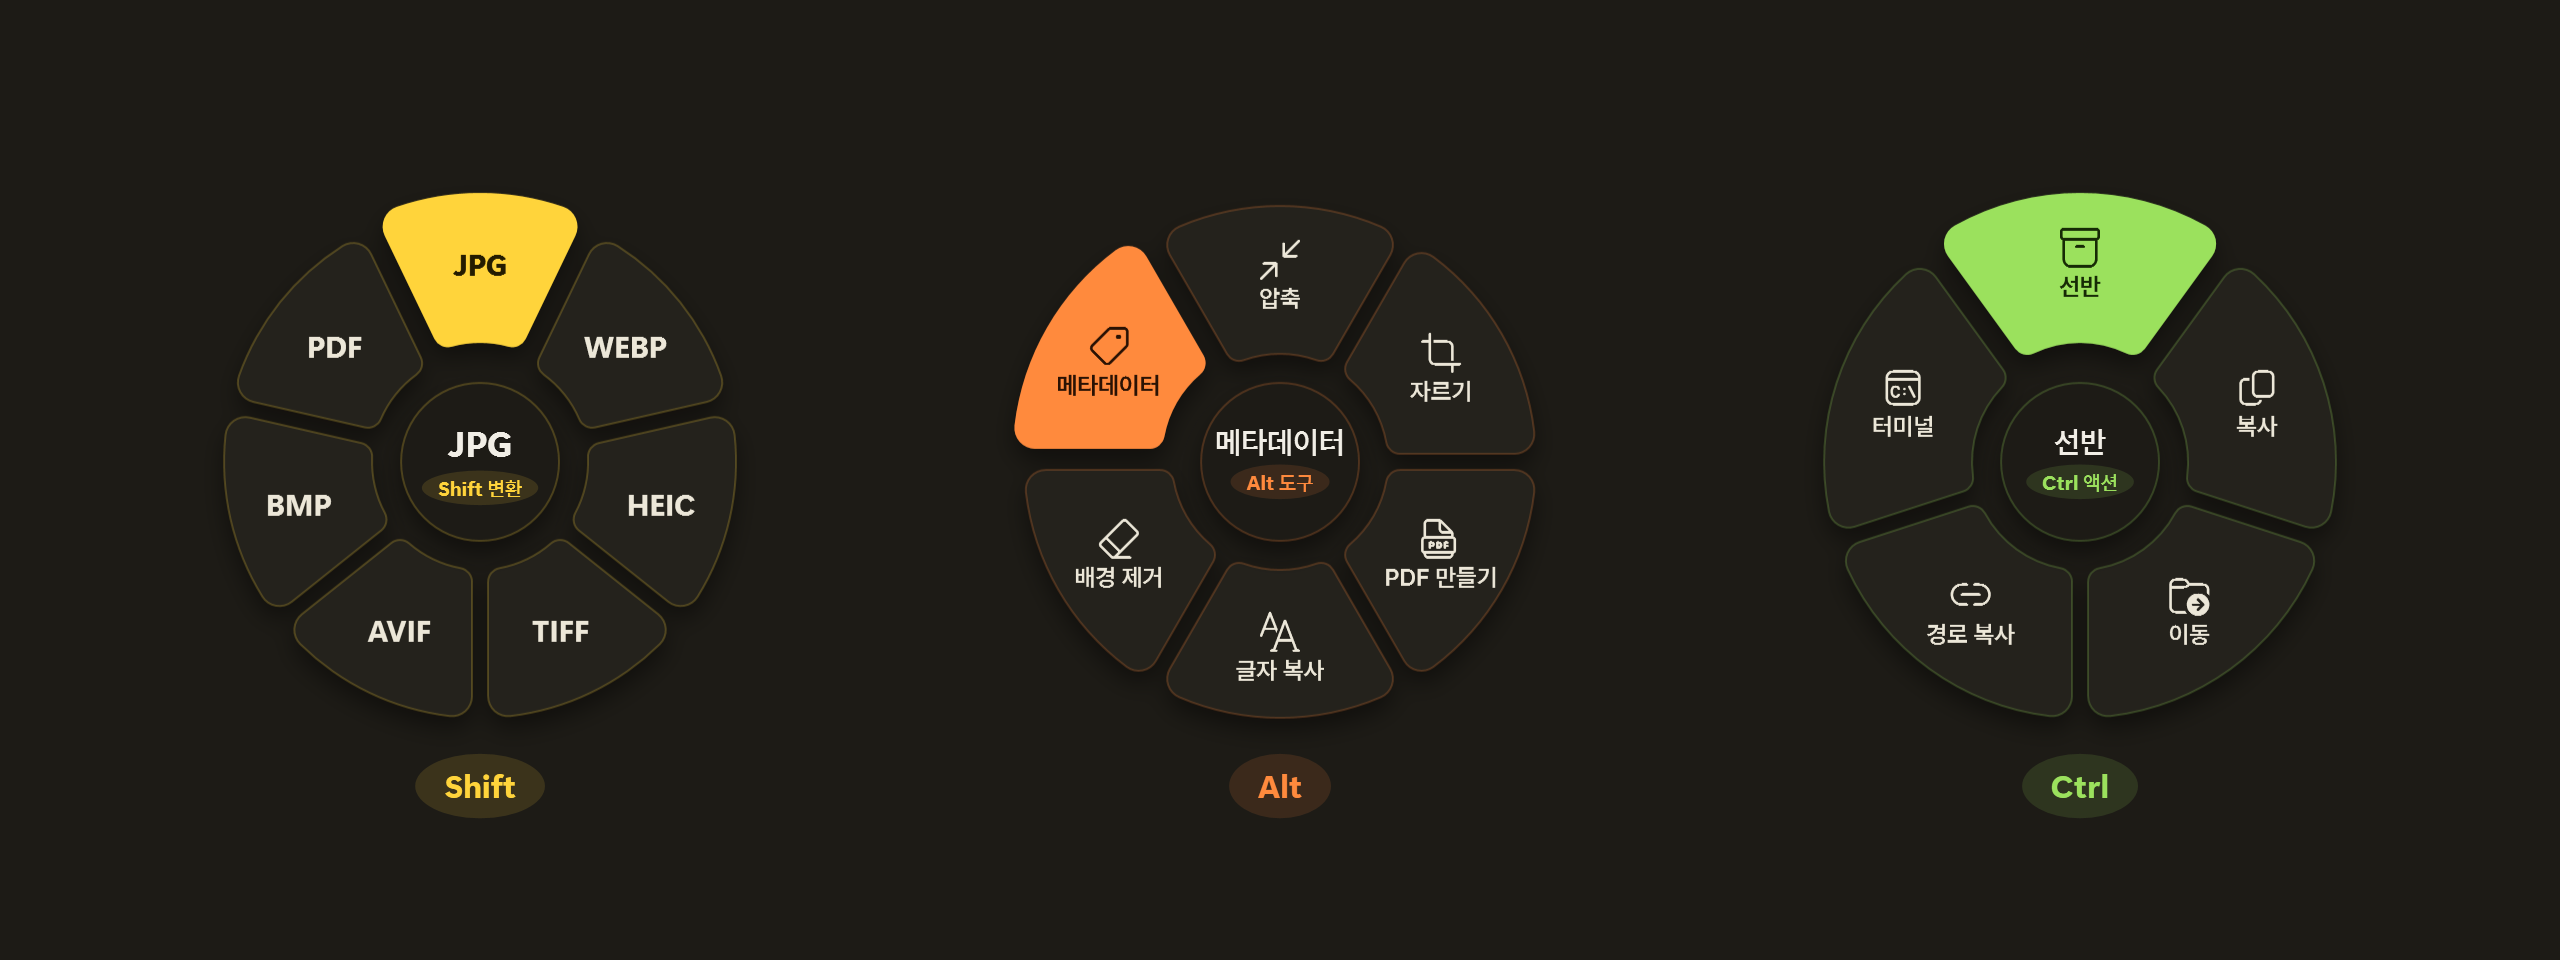
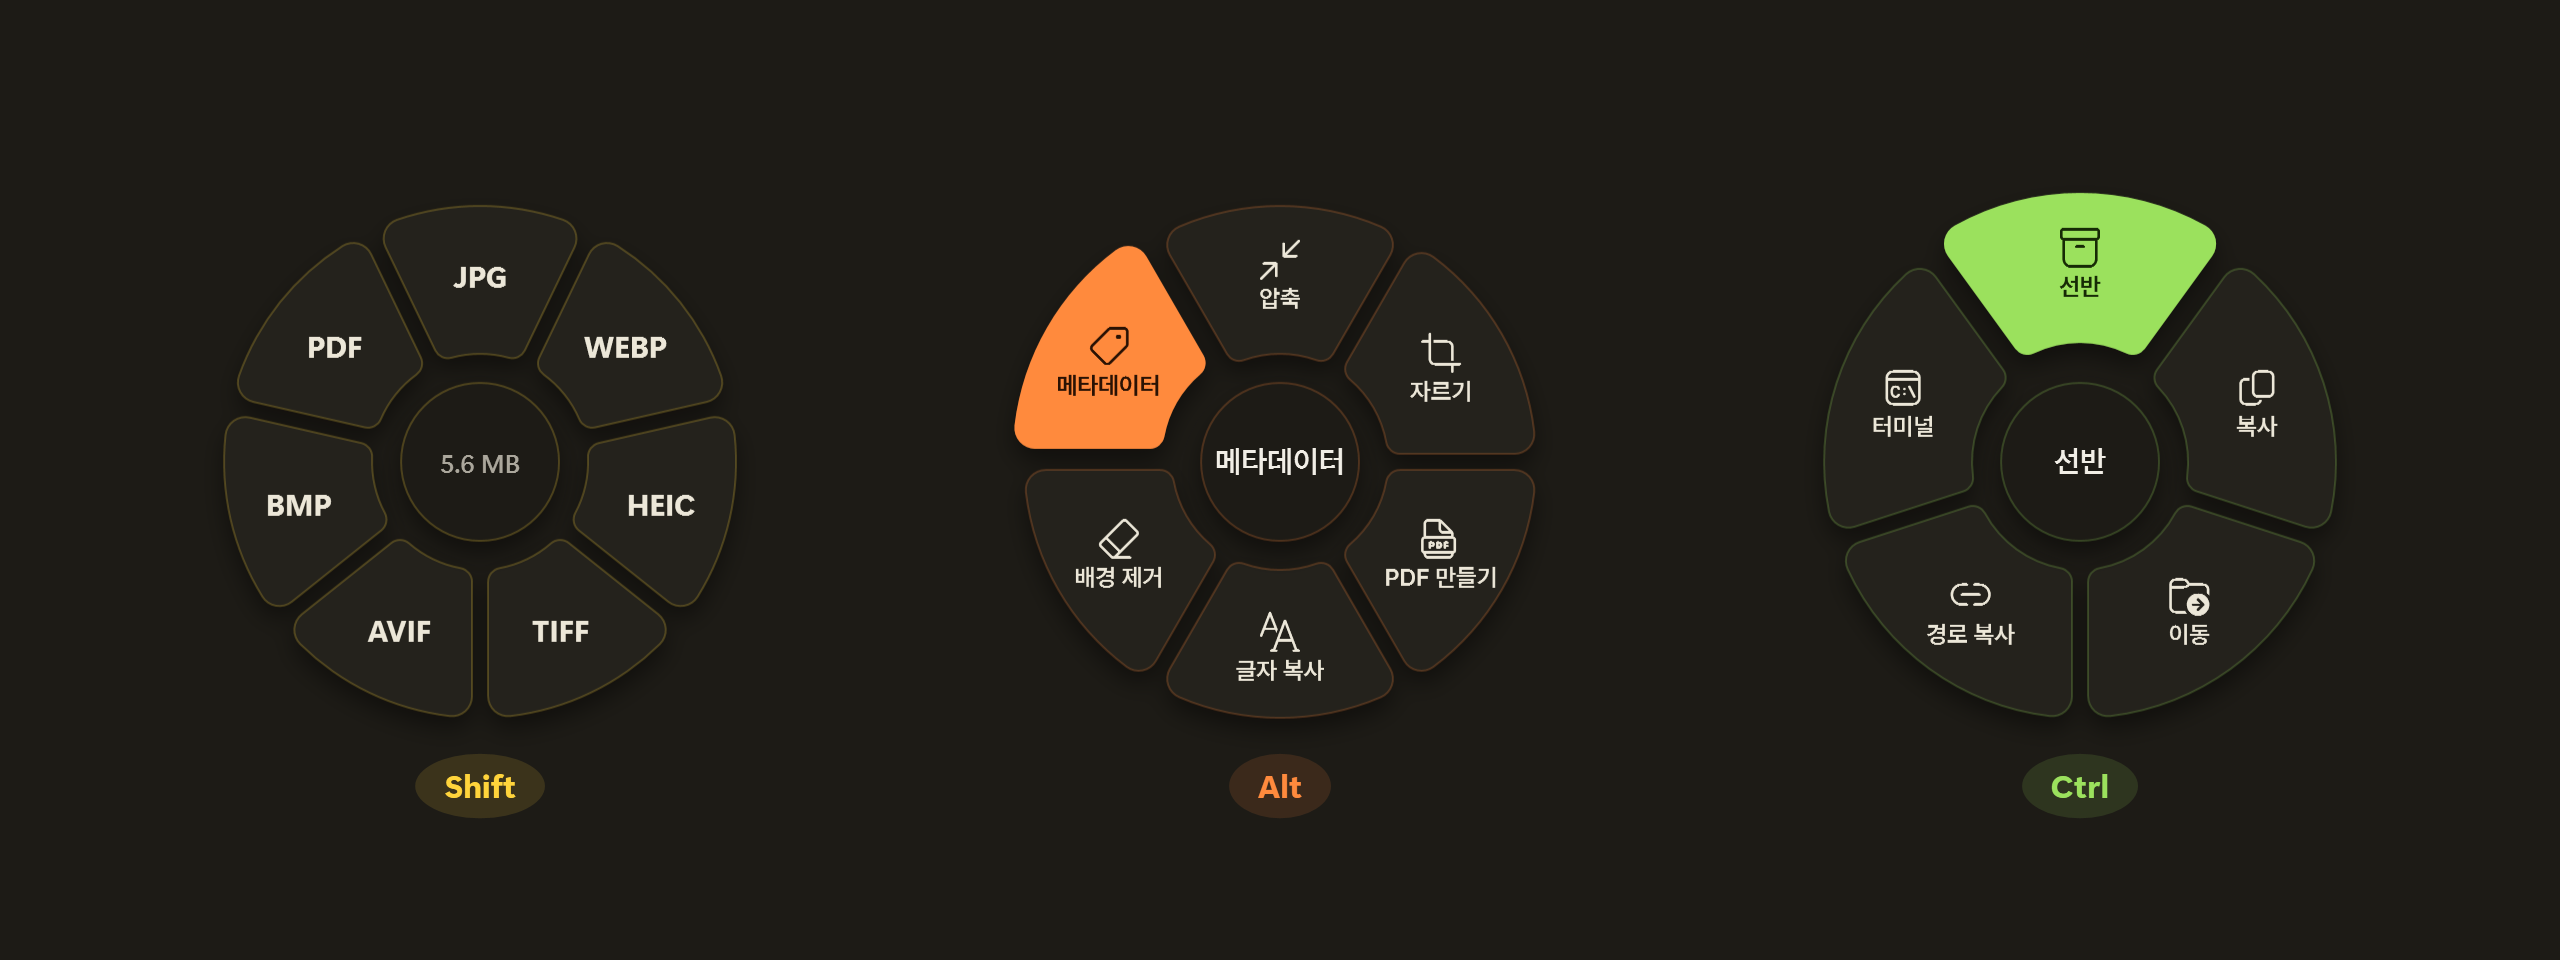
docs: README images and text show the size in the wheel hub
Re-rendered the wheels, demo and demo poster with the new hub (the
photo's 5.6 MB when nothing is hovered, the petal's name when it is),
updated the alt texts in both READMEs, added a line on what the middle
of the wheel shows, and replaced the manual check for the removed chip.

diff --git a/README.en.md b/README.en.md
@@ -19,7 +19,7 @@
 </div>
 
 <p align="center">
-  <img src="docs/images/demo.webp" width="720" alt="The highlight moving over PDF, JPG and WEBP on the convert wheel, compress and metadata on the tools wheel, and copy and shelf on the actions wheel" />
+  <img src="docs/images/demo.webp" width="720" alt="Each wheel opens with the photo's size, 5.6 MB, in the middle; then the highlight moves over PDF, JPG and WEBP on the convert wheel, compress and metadata on the tools wheel, and copy and shelf on the actions wheel, the middle naming each petal" />
   <br />
   <sub>Shift for convert, Alt for tools, Ctrl for actions</sub>
 </p>
@@ -33,7 +33,7 @@ The app's interface is in Korean. Korean labels are quoted below with their mean
    - **Shift**: convert wheel
    - **Alt**: tools wheel
    - **Ctrl**: actions wheel
-3. When the wheel appears, drop the file on the petal you want.
+3. When the wheel appears, drop the file on the petal you want. The middle of the wheel shows the size of the dragged files, and the name of the petal you are over.
 4. Dropping **outside** the wheel or on the **hole in the middle**, or pressing Esc, does nothing.
 5. Convert, the tools and metadata never change the original; the result is a new file next to it. Only the **Move** action moves the file itself.
 
@@ -42,7 +42,7 @@ Dragging without tapping a key works as usual.
 ## Features
 
 <p align="center">
-  <picture><source media="(prefers-color-scheme: dark)" srcset="docs/images/wheels-dark.png" /><img alt="The three wheels: convert (Shift) with JPG highlighted, tools (Alt) with metadata highlighted, actions (Ctrl) with shelf highlighted" src="docs/images/wheels-light.png" /></picture>
+  <picture><source media="(prefers-color-scheme: dark)" srcset="docs/images/wheels-dark.png" /><img alt="The three wheels: convert (Shift) showing the file size, 5.6 MB, in the middle, tools (Alt) with metadata highlighted, actions (Ctrl) with shelf highlighted" src="docs/images/wheels-light.png" /></picture>
 </p>
 
 **Convert (Shift)**

diff --git a/README.md b/README.md
@@ -19,7 +19,7 @@
 </div>
 
 <p align="center">
-  <img src="docs/images/demo.webp" width="720" alt="변환 휠에서 PDF, JPG, WEBP로, 도구 휠에서 압축과 메타데이터로, 액션 휠에서 복사와 선반으로 강조가 옮겨 가는 모습" />
+  <img src="docs/images/demo.webp" width="720" alt="휠이 열리면 가운데에 사진 크기 5.6 MB가 보이고, 변환 휠에서 PDF, JPG, WEBP로, 도구 휠에서 압축과 메타데이터로, 액션 휠에서 복사와 선반으로 강조가 옮겨 가며 가운데에 그 꽃잎 이름이 나타나는 모습" />
   <br />
   <sub>Shift는 변환, Alt는 도구, Ctrl은 액션 휠</sub>
 </p>
@@ -31,7 +31,7 @@
    - **Shift**: 변환 휠
    - **Alt**: 도구 휠
    - **Ctrl**: 액션 휠
-3. 휠이 뜨면 원하는 꽃잎 위에 놓습니다.
+3. 휠이 뜨면 원하는 꽃잎 위에 놓습니다. 휠 가운데에는 끌고 있는 파일의 크기가 보이고, 꽃잎 위에 올리면 그 꽃잎 이름으로 바뀝니다.
 4. 휠 **바깥**이나 **가운데 구멍**에 놓거나 Esc를 누르면 아무 일도 일어나지 않습니다.
 5. 변환·도구·메타데이터는 원본을 바꾸지 않고, 결과를 원본 옆에 새 파일로 만듭니다. 원본 파일을 옮기는 것은 **이동** 액션뿐입니다.
 
@@ -40,7 +40,7 @@
 ## 기능
 
 <p align="center">
-  <picture><source media="(prefers-color-scheme: dark)" srcset="docs/images/wheels-dark.png" /><img alt="세 휠: JPG가 강조된 변환 휠(Shift), 메타데이터가 강조된 도구 휠(Alt), 선반이 강조된 액션 휠(Ctrl)" src="docs/images/wheels-light.png" /></picture>
+  <picture><source media="(prefers-color-scheme: dark)" srcset="docs/images/wheels-dark.png" /><img alt="세 휠: 가운데에 파일 크기 5.6 MB가 보이는 변환 휠(Shift), 메타데이터가 강조된 도구 휠(Alt), 선반이 강조된 액션 휠(Ctrl)" src="docs/images/wheels-light.png" /></picture>
 </p>
 
 **변환 (Shift)**

diff --git a/docs/manual-checklist.md b/docs/manual-checklist.md
@@ -144,7 +144,7 @@
 |---|---|---|---|
 | 76 | m4a(음악 앱에서 받은 파일) → 메타데이터 → 제목 바꾸기 → 새 파일 → 탐색기 속성 › 자세히 | 제목에 바꾼 값, 참여 음악가(아티스트)도 그대로 보임. 빈칸이 아님 | |
 | 77 | 위치가 켜진 상태로 찍은 iPhone .mov → 메타데이터 → 위치 지우기 → 새 파일 | 다시 메타데이터 창을 열면 위치 줄과 배너가 없음. 영상·소리는 그대로 재생됨 | |
-| 78 | 라이트 테마에서 Shift 휠의 가운데 칩("Shift 변환") 읽기 | 레몬 칩 글자가 흐리지 않고 또렷이 읽힘 (탠저린·라임 칩도) | |
+| 78 | 사진 한 장, 사진 세 장, 사진과 폴더를 함께 끌고 Shift 탭, 꽃잎 위에 올리지 않기 | 휠이 바로 뜨고, 가운데에 "5.6 MB"처럼 크기 / "3개 · 12.4 MB" / "파일 2개 · 폴더 1개"가 나타남. 꽃잎 위에 올리면 그 이름으로 바뀜. 꺼진 네트워크 드라이브의 파일을 끌어도 휠은 바로 뜨고 가운데만 비어 있음 | |
 | 79 | 메타데이터·내려받기·글자 복사·순서 창에서 Tab을 여러 번 누르기 | 아래 막대에서 포커스가 왼쪽부터 오른쪽으로(체크박스·보조 버튼 → 주 버튼) 이동 | |
 | 80 | 트레이 › 라이선스 보기 → Esc | 라이선스 창이 닫힘 | |
 
